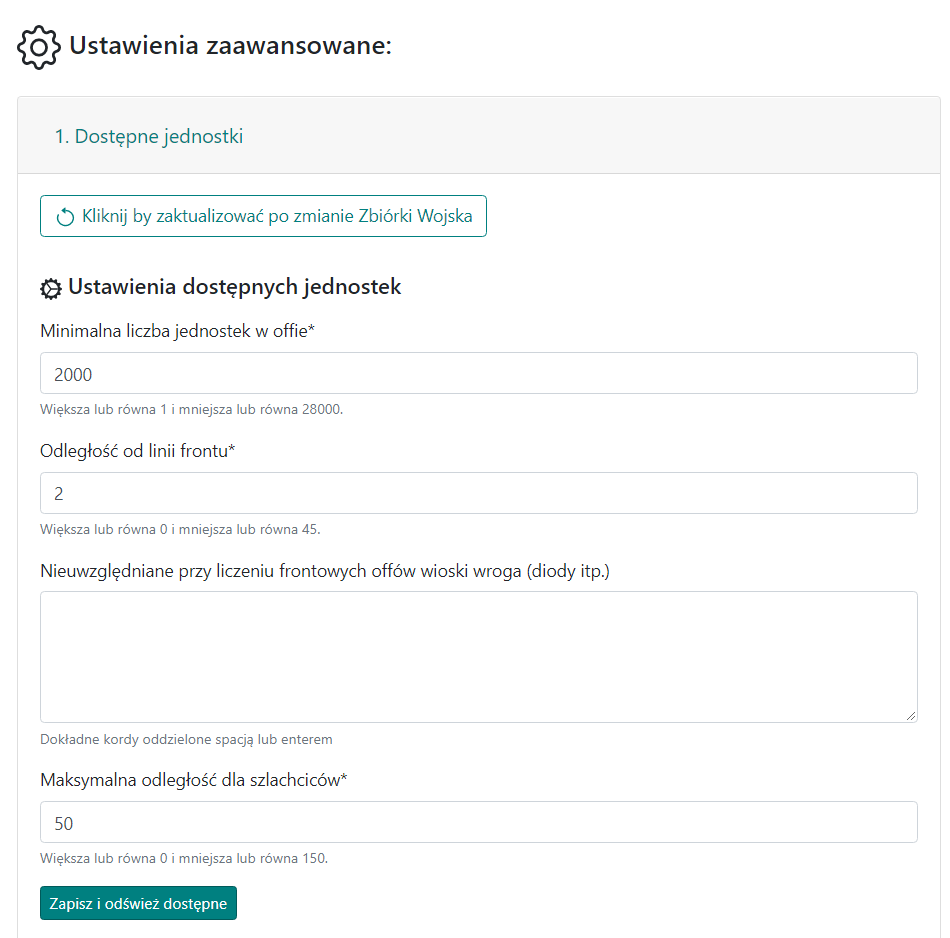
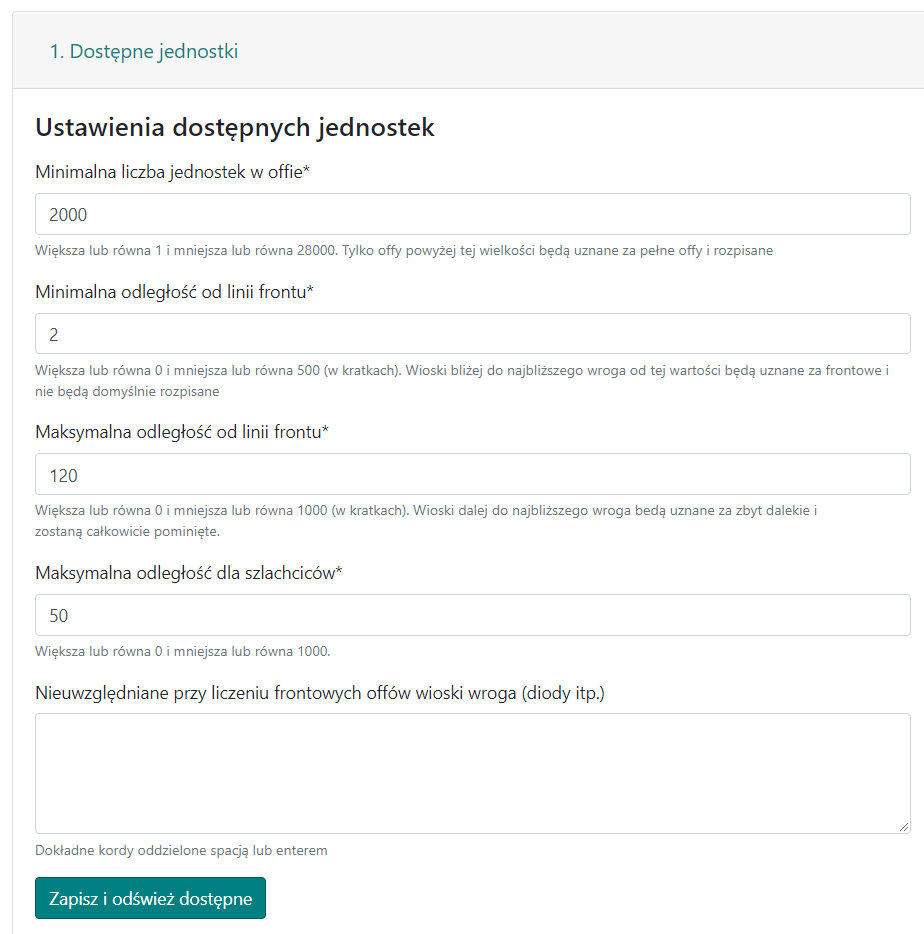
finished changing all images, rewritten second section in 3 chapter

diff --git a/docs/pl/documentation_pl.md b/docs/pl/documentation_pl.md
@@ -264,7 +264,10 @@ Cała zakładka służy głównie dwóm celom, jest to wpisywanie celów, oraz a
 
 ### Ustawianie dostępnych jednostek
 
-Rozwiń pierwszą zakładkę <span class="md-correct2">1. Dostępne jednostki</span>. W polach formularza możesz pozostawić domyślne wartości, zmieniając jedynie <span class="md-correct2">Maksymalna odległość dla szlachciców</span> na 120. Celem jest podzielenie wszystkich naszych wiosek na dwie grupy, <span class="md-error">Frontowe</span> oraz <span class="md-error">Zapleczowe</span> w zależności od wpisanych wrogich plemion (liczona jest odległość od najbliższych wrogów dla każdej naszej wioski). Dla <span class="md-correct2">Świata Testowego</span> wszystkie wioski są na zapleczu, czyli daleko od wroga. Zatwierdź formularz klikając <span class="md-correct2">Zapisz i odśwież dostępne</span>.
+<p class="md-error">Wprowadź te wartości do formularza w 1 zakładce:</p>
+<img id="large" class="img-thumbnail" onclick="img_box(this)" style="max-height:250px;" src="/static/docs/pl/1_000_test-filled-form.png" alt="test world example content form">
+
+Rozwiń pierwszą zakładkę <span class="md-correct2">1. Dostępne jednostki</span>. W polach formularza zmień **Minimalną odległość od linii frontu** na 90, **Maksymalną odległość od linii frontu** na 130, zaś **Maksymalna odległość dla szlachciców** na 120 (zobacz rysunek wyżej). Celem jest podzielenie wszystkich naszych wiosek na trzy grupy, <span class="md-error">Frontowe</span>, <span class="md-error">Zapleczowe</span> oraz <span class="md-error">Poza</span> (bardzo dalekie) w zależności od wpisanych wrogich plemion (liczona jest odległość od najbliższych wrogów dla każdej naszej wioski). Dla <span class="md-correct2">Świata Testowego</span> wszystkie wioski są daleko od wroga stąd te odległości są znaczne. Zatwierdź formularz klikając <span class="md-correct2">Zapisz i odśwież dostępne</span>.
 
 <p class="md-error">Powinieneś zobaczyć w tabeli poniższe rezultaty:</p>
 <img id="large" class="img-thumbnail" onclick="img_box(this)" style="max-height:250px;" src="/static/docs/pl/1_010_test-example.png" alt="test world example content form">
@@ -277,7 +280,7 @@ Rozwiń pierwszą zakładkę <span class="md-correct2">1. Dostępne jednostki</s
 
 ### Zakładki w menu akcji
 
-W następnej zakładce zobaczysz Menu z 5 zakładkami zaznaczonymi na obrazku poniżej (2,3,4,5), przyciskiem Powrotu do poprzedniej zakładki (1), edycji każdego celu (7,8,9) oraz nawigacja między stronami (10).
+W następnej zakładce zobaczysz Menu z 5 zakładkami zaznaczonymi na obrazku poniżej (2,3,4,5), przyciskiem Powrotu do poprzedniej zakładki (1), edycji każdego celu (9,10,11), wyszukiwanie rozkazów (7) i nawigację między stronami (8).
 
 <img id="large" class="img-thumbnail" onclick="img_box(this)" style="max-height:250px;" src="/static/docs/pl/1_020_test-menu.png" alt="test world example menu">
 <br>
@@ -287,21 +290,21 @@ Ta zakładka jest bardzo prosta. Dodaj kordy wioski zaznaczając czy jest to cel
 
 <p class="md-error">3. MENU - USTAW CELE</p>
 
-Cele są podzielone po 12 na jedną stronę. Przy każdym z nich znajduje się przycisk <span class="md-correct2">Edytuj</span> pozwalający dopracować każdy cel z osobna. Klikając na edycję pierwszego celu czyli <span class="md-error">nr 6</span> na powyższym zdjęciu dostaniemy poniższy widok wraz z ponumerownymi przyciskami, opisanymi poniżej.
+Cele są podzielone po 12 na jedną stronę. Przy każdym z nich znajduje się przycisk <span class="md-correct2">Edytuj</span> pozwalający dopracować każdy cel z osobna. Klikając na edycję pierwszego celu czyli <span class="md-error">nr 9</span> na powyższym zdjęciu dostaniemy poniższy widok wraz z ponumerownymi przyciskami, opisanymi poniżej.
 
 <br>
 <img id="large" class="img-thumbnail" onclick="img_box(this)" style="max-height:250px;" src="/static/docs/pl/1_030_test-target.png" alt="test world example target edit">
 <br>
 
-<p class="my-0"><span class="md-error">1, 2</span> - Zamiana rozkazów miejscami.</p>
+<p class="my-0"><span class="md-error">1,2</span> - Zamiana rozkazów miejscami.</p>
 <p class="my-0"><span class="md-error">3</span> - Usuwanie rozkazu, wraca on do puli po prawej.</p>
 <p class="my-0"><span class="md-error">4</span> -  Zmiana ilości wojsk w ataku.</p>
 <p class="my-0"><span class="md-error">5</span> -  Podział ataku na 2,3,4 równe części.</p>
 <p class="my-0"><span class="md-error">6</span> -  Sortowanie pozostałych wiosek na kilkanaście sposobów.</p>
-<p class="my-0"><span class="md-error">7, 8</span> -  Filtrowanie po wielkości pozostałych offów.</p>
+<p class="my-0"><span class="md-error">7,8</span> -  Filtrowanie po wielkości pozostałych offów.</p>
 <p class="my-0"><span class="md-error">9</span> -  Pokazywanie wszystkich, frontowych, zapleczowych lub ukrytych wiosek.</p>
-<p class="my-0"><span class="md-error">10,11</span> -  Dodawanie nowej atakującej wioski, na górę i na dół.</p>
-<p class="my-0"><span class="md-error">12</span> -  Dodawanie wioski do ukrytych.</p>
+<p class="my-0"><span class="md-error">10</span> -  Dodawanie wioski do ukrytych.</p>
+<p class="my-0"><span class="md-error">11,12</span> -  Dodawanie nowego rozkazu z tej wioski, na górę i na dół (po lewej offy, po prawej offoszlachty itp., najedź na pytajnik po szczegóły).</p>
 
 ---
 
@@ -334,7 +337,7 @@ To samo co ustawianie prawdziwych celów, z tą różnicą że domyślnie widocz
 
 Użytkownik ma możliwość tworzenia wielu obiektów w zakładce, w praktyce jednak wystarczyć może nawet jeden lub kilka. Wybieramy przedziały czasowe dla rozkazu, jednostkę oraz tryb spośród 3 możliwych. Przykładowy, skomplikowany czas mógłby wyglądać tak:
 
-<img id="large" class="img-thumbnail" onclick="img_box(this)" style="max-height:250px;" src="/static/docs/pl/1_060_time1.png?raw=true" alt="test world time 1">
+<img id="large" class="img-thumbnail" onclick="img_box(this)" style="max-height:250px;" src="/static/docs/pl/1_060_time1.png" alt="test world time 1">
 <br>
 
 Co oznacza:
@@ -864,24 +867,36 @@ W takim przypadku zmiast jednej liczby offów wpisaliśmy **2|0|5|0** a zamiast 
 
 ## Dwa rejony plemienia czyli co to Front i Zaplecze {#dwa-rejony-plemienia-czyli-co-to-front-i-zaplecze}
 
-<div class="p-3 mb-2 bg-light text-dark"><i class="bi bi-info-square"></i> <span class="md-error">Zawsze</span> rozpoczynaj rozpisywanie <b>dowolnej akcji na tej stronie</b> od policzenia wszystkich offów i podzieleniu ich na <span class="md-error">Frontowe</span>, <span class="md-error">Zapleczowe</span> oraz (ewentualnie) <span class="md-error">Poza</span> zgodnie z duchem danej rozpiski. Do tego celu służy zakładka <span class="md-correct2">1. Dostępne jednostki</span>, zaś wyniki prezentowane są w tabeli pod celami.</div>
+<div class="p-3 mb-2 bg-light text-dark"><i class="bi bi-info-square"></i> Zawsze rozpoczynaj rozpisywanie <b>dowolnej akcji na tej stronie</b> od policzenia wszystkich offów i podzieleniu ich na <span class="md-error">Frontowe</span>, <span class="md-error">Zapleczowe</span> oraz <span class="md-error">Poza</span> zgodnie z duchem danej rozpiski. Do tego celu służy zakładka <span class="md-correct2">1. Dostępne jednostki</span>, zaś wyniki prezentowane są w tabeli pod celami.</div>
 
-Odpowiedzią na to, by podczas rozpisywania akcji **nie** rozpisywać frontowych offów frontowcom, którzy powinni je trzymać na dobitki z bliska (lub używać w dowolny inny sposób), jest podział naszych wiosek na dwie grupy, <span class="md-error">Front</span>, czyli offy i szlachta **blisko** wroga, oraz <span class="md-error">Zaplecze</span> czyli offy i szlachta **daleko** od wroga. Od wersji 2.1.0 doszedł kolejny rejon <span class="md-error">Poza</span> intuicyjnie oznaczający bardzo dalekie wioski (ale przykładów zastosowań jest więcej), rozwiązujący problem offów z bardzo daleka, które nie są porządane, ale nie tylko, bo również pozwalający na akcję offami z **przedziału** np. 20 kratek - 80 kratek. Jak dokładnie to się odbywa i jak to kontrolować, wyjaśni się za chwilę.
+Odpowiedzią na to, by podczas rozpisywania akcji **nie** rozpisywać frontowych offów frontowcom, którzy powinni je trzymać na dobitki z bliska (lub używać w dowolny inny sposób), jest podział naszych wiosek na dwie najważniejsze grupy, <span class="md-error">Front</span>, czyli offy i szlachta **blisko** wroga, oraz <span class="md-error">Zaplecze</span> czyli offy i szlachta **daleko** od wroga. Od wersji 2.1.0 doszedł kolejny rejon <span class="md-error">Poza</span> intuicyjnie oznaczający bardzo dalekie wioski (ale przykładów zastosowań jest więcej), rozwiązujący problem offów z bardzo daleka, które nie są porządane, ale nie tylko, bo również pozwalający na akcję offami z **przedziału** np. 20 kratek - 80 kratek. Jak dokładnie to się odbywa i jak to kontrolować, wyjaśni się za chwilę.
 
-To, jak zostaną podzielone nasze offy i szlachta, zależy od ustawień w zakładce <span class="md-correct2">1. Dostępne jednostki</span>, rozważmy najpierw **0 kratek Minimalnej odległości od linii frontu** oraz **500 kratek Maksymalnej odległości od linii frontu**, patrz rys. niżej.
+<h5>Całość intuicji związanej z podziałem można skrócić do poniższego zdjęcia:</h5>
+<img id="large" class="img-thumbnail" onclick="img_box(this)" style="max-height:250px;" src="https://raw.githubusercontent.com/rafsaf/tw-complex/main/images/Figure_3.png" alt="Troops form">
+
+Nasze plemiona (na niebiesko) otaczają wroga (czerwonego), na lewym zdjęciu widać stan SPRZED działania algorytmu, zaś na prawym PO jego zastosowaniu. Podzieliśmy całość naszych wiosek na "sektory" w zależności od odległości od wroga: najbliżej czerwonego- **Front**, trochę dalej ale nie do przesady- **Zaplecze**, zaś wioski bardzo dalekie pozostały niebieskie i oznaczają one **Poza**. PS. Ta część aplikacji jest dostępna jako open-source i jest dostępna przez PyPI oraz na [GitHubie](https://github.com/rafsaf/tw-complex).
+
+To, jak zostaną podzielone nasze offy i szlachta, zależy od ustawień w zakładce <span class="md-correct2">1. Dostępne jednostki</span>, rozważmy kilka popularnych możliwości.
+
+<div class="p-3 mb-2" style="background: #CEF2F3 !important;">Offy blisko celów i szlachta blisko celów, działają identycznie jak Offy i Szlachta, tyle tylko, że zamiast brać pod uwagę "wszystkich" wrogów i na tej podstawie dzielić na rejony, biorą pod uwagę tylko cele wpisane przez Użytkownika w <b>Cele</b>. Jest to dużo dokładniejszy wynik, bo wiadomo ile mamy dostępnych jednostek w pobliżu celów (może się to bardzo różnić w stosunku do tego co mamy w całym plemieniu).</div>
 
 <br>
-<h5>Zakładka <span class="md-correct2">1. Dostępne jednostki</span> gdzie dzielimy offy i szlachtę na Front i Zaplecze</h5>
-<img id="large" class="img-thumbnail" onclick="img_box(this)" style="max-height:250px;" src="/static/docs/pl/3_040_troops-form.png" alt="Troops form">
+<h5>Przykład wyniku dla <b>min. 0 kratek i maks. 500 kratek</b>- czyli nie chcemy ŻADNYCH "Frontów" i żadnych "Poza", wszystko jest zapleczem i wszystko można rozpisać.</b></h5>
+<img id="large" class="img-thumbnail" onclick="img_box(this)" style="max-height:250px;" src="/static/docs/pl/3_040_troops-form1.png" alt="Troops form1">
+
+<img id="large" class="img-thumbnail" onclick="img_box(this)" style="max-height:250px;" src="/static/docs/pl/3_050_troops-table1.png" alt="Troops table1">
 
 <br>
-<h5>Przykład wyniku dla <b>0 kratek odległości od linii frontu</b></h5>
-<img id="large" class="img-thumbnail" onclick="img_box(this)" style="max-height:250px;" src="/static/docs/pl/3_050_troops-table1.png" alt="Troops table2">
+<h5>Przykład wyniku dla <b>min. 15 kratek i maks. 100 kratek</b>- czyli chcemy  by gracze którzy mają poniżej 15 kratek od wroga, trzymali offy jako frontowcy i nie chcemy by jakikolwiek off miał dalej od celu niż 100 kratek (czyli leciał dłużej niż 2 doby etc).</b></h5>
+<img id="large" class="img-thumbnail" onclick="img_box(this)" style="max-height:250px;" src="/static/docs/pl/3_041_troops-form2.png" alt="Troops form2">
+
+<img id="large" class="img-thumbnail" onclick="img_box(this)" style="max-height:250px;" src="/static/docs/pl/3_051_troops-table2.png" alt="Troops table2">
 
 <br>
-<h5>Przykład wyniku dla <b>20 kratek odległości od linii frontu</b></h5>
-<img id="large" class="img-thumbnail" onclick="img_box(this)" style="max-height:250px;" src="/static/docs/pl/3_060_troops-table2.png" alt="Troops table2">
-<br>
+<h5>Przykład wyniku dla <b>min. 60 kratek i maks. 120 kratek</b>- kiedy chcemy, aby zaplecze było powyżej 60 kratek od wroga i poniżej 120, np. przy akcji czy burzeniu z daleka (a z bliska robimy osobną).</b></h5>
+<img id="large" class="img-thumbnail" onclick="img_box(this)" style="max-height:250px;" src="/static/docs/pl/3_042_troops-form3.png" alt="Troops form3">
+
+<img id="large" class="img-thumbnail" onclick="img_box(this)" style="max-height:250px;" src="/static/docs/pl/3_052_troops-table3.png" alt="Troops table3">
 
 Tylko offy **większe niż wybrana minimalna liczba jednostek w offie** zostaną pokazane. W obecnej wersji ck z offów również będą **rozpoznane** i odróżnione od ck z wiosek deffowych oraz policzone. Wynik zależy głównie od <span class="md-error">Przeciwnych plemion</span>, które zostały wybrane na samym początku przy tworzeniu rozpiski. Algorytm jest bardzo prosty, dookoła każdej **wrogiej** wioski liczony jest rejon w odległości, która została podana jako <b>odległość od linii frontu</b>. Biorąc sumę tych wszystkich rejonów w całość, możemy dla każdej **sojuszniczej** wioski wskazać czy jest ona w pobliżu tych wrogich wiosek (wtedy jest frontowa), czy też nie jest (wtedy jest na zapleczu). Stąd też w pole <span class="md-correct2">Nieuwzględniane przy liczeniu frontowych offów wioski wroga</span> wklejamy wszelkie wrogie diody, by nie zaburzały wyniku.
 
@@ -1135,7 +1150,7 @@ Podsumowując warto zastanowić się nad ilością katapult (i ile budynków war
 <p class="mb-0"><b><a href="#dostepne-jednostki-i-opis-tabeli">1. Dostępne jednostki i opis Tabeli.</a></b></p>
 <p class="my-0"><b><a href="#zmiana-daty-akcji">2. Zmiana daty akcji.</a></b></p>
 <p class="my-0"><b><a href="#domyslne-ustawienia-trybu-akcji">3. Domyślne ustawienia trybu akcji</a></b></p>
-<p class="my-0"><b><a href="#wybierz-tryb-dla-kazdego-celu-z-osobna">4. Wybierz tryb dla każdego celu z osobna</a></b></p>
+<p class="my-0"><b><a href="#rozpisywanie-wolnej-szlachty">4. Rozpisywanie wolnej szlachty</a></b></p>
 <p class="my-0"><b><a href="#unikanie-bonusu-nocnego">5. Unikanie bonusu nocnego.</a></b></p>
 <p class="my-0"><b><a href="#burzenie">6. Burzenie.</a></b></p>
 
@@ -1184,7 +1199,9 @@ Nie istnieje i nie będzie istniała możliwość _de facto_ rozpisania akcji na
 <h5>Wygląd zakładki z domyślnymi ustawieniami:</h5>
 <img id="large" class="img-thumbnail" onclick="img_box(this)" style="max-height:250px;" src="/static/docs/pl/4_020_change-mode1.png" alt="Target mode change">
 
-W artykule <b><a href="#dwa-rejony-plemienia-czyli-co-to-front-i-zaplecze">Dwa rejony plemienia czyli co to front i zaplecze</a></b> dowidziałeś/aś się jak Planer radzi sobie z podziałem na <span class="md-error">Front</span> i <span class="md-error">Zaplecze</span>. Najpierw omówimy punkty **1.** i **2.** na powyższym zdjęciu.
+W artykule <b><a href="#dwa-rejony-plemienia-czyli-co-to-front-i-zaplecze">Dwa rejony plemienia czyli co to front i zaplecze</a></b> dowidziałeś/aś się jak Planer radzi sobie z podziałem na <span class="md-error">Front</span>, <span class="md-error">Zaplecze</span>i <span class="md-error">Poza</span>. Najpierw omówimy punkty **1.** i **2.** na powyższym zdjęciu.
+
+<div class="p-3 mb-2" style="background: #CEF2F3 !important;">Uwaga, dla całości rozważań poniżej, ignorujemy wszystkie wioski z rejonu<span class="md-error">Poza</span>. Są one całkowicie pomijane przez Planer, stąd skupiamy się jedynie na froncie i zapleczu.</div>
 
 <h5>Ustawienia 1-2:</h5>
 <img id="large" class="img-thumbnail" onclick="img_box(this)" style="max-height:250px;" src="/static/docs/pl/4_030_change-mode1.1.png" alt="Target mode change 1">
@@ -1232,18 +1249,9 @@ Najbardziej sensowna opcja szczególnie dla większych akcji to raczej **dzielen
 <br>
 <br>
 
-## 4. Wybierz tryb dla każdego celu z osobna {#wybierz-tryb-dla-kazdego-celu-z-osobna}
+## 4. Rozpisywanie wolnej szlachty {#rozpisywanie-wolnej-szlachty}
 
-<div class="p-3 mb-2 bg-light text-dark"><i class="bi bi-info-square"></i> Zakładka służy do ustalenia szczegółów skąd dokładnie powinny lecieć offy na akcję dla każdego celu z osobna. Do wyboru dla poszczególnych celów są opcje omawiane w <b><a href="#domyslne-ustawienia-trybu-akcji">3. Domyślne ustawienia trybu akcji</a></b>.</div>
-
-<h5>Wygląd zakładki z kilkoma poprzestawianymi trybami:</h5>
-<img id="large" class="img-thumbnail" onclick="img_box(this)" style="max-height:250px;" src="/static/docs/pl/4_050_target-mode-change.png" alt="Target mode change">
-
-<br>
-
-Uwaga, pamiętaj że po każdym ponownym kliknięciu <span class="md-correct2">Zapisz cele</span>, ustawienia wszystkich celów powracają do tych z zakładki **3. Domyślne ustawienia trybu akcji**. Być może lepszym sposobem, jest używanie rozszerzonego kodowania celów omawianego w **Podstawowych poradnikach zakładki Planer**, w artykule<br> <b><a href="#jak-wpisywac-i-zapisac-cele-akcji">Jak wpisywać i zapisać cele akcji</a></b>.
-
-<div class="p-3 mb-2 bg-light text-dark"><i class="bi bi-info-square"></i> Formularz zmiany trybów dla każdego celu z osobna, jest dostępny tylko do 100 celi, powyżej tej ilości wyświetlna jest krótka informacja, że nie można jej użyć.</div>
+<div class="p-3 mb-2 bg-light text-dark"><i class="bi bi-info-square"></i> Zakładka służyć będzie uwzględnianiu w akcji wolnej szlachty tak by gracze dostali w celach gdzie mają je wybudować i potem wysłać. Optymistyczny termin- do końca wakacji, pesymistyczny- roku :)</div>
 
 <br>
 

diff --git a/docs/pl/planer_form_info_pl.md b/docs/pl/planer_form_info_pl.md
@@ -15,7 +15,7 @@
 
 <p class="my-0"><b><a target="_blank" href="/documentation#zmiana-daty-akcji">2. Zmiana daty akcji.</a></b></p>
 <p class="my-0"><b><a target="_blank" href="/documentation#domyslne-ustawienia-trybu-akcji">3. Domyślne ustawienia trybu akcji.</a></b></p>
-<p class="my-0"><b><a target="_blank" href="/documentation#wybierz-tryb-dla-kazdego-celu-z-osobna">4. Wybierz tryb dla każdego celu z osobna.</a></b></p>
+<p class="my-0"><b><a target="_blank" href="/documentation#rozpisywanie-wolnej-szlachty">4. Rozpisywanie wolnej szlachty.</a></b></p>
 <p class="my-0"><b><a target="_blank" href="/documentation#unikanie-bonusu-nocnego">5. Unikanie wysyłek w bonusie.</a></b></p>
 <p class="my-0"><b><a target="_blank" href="/documentation#burzenie">6. Burzenie.</a></b></p>
 
